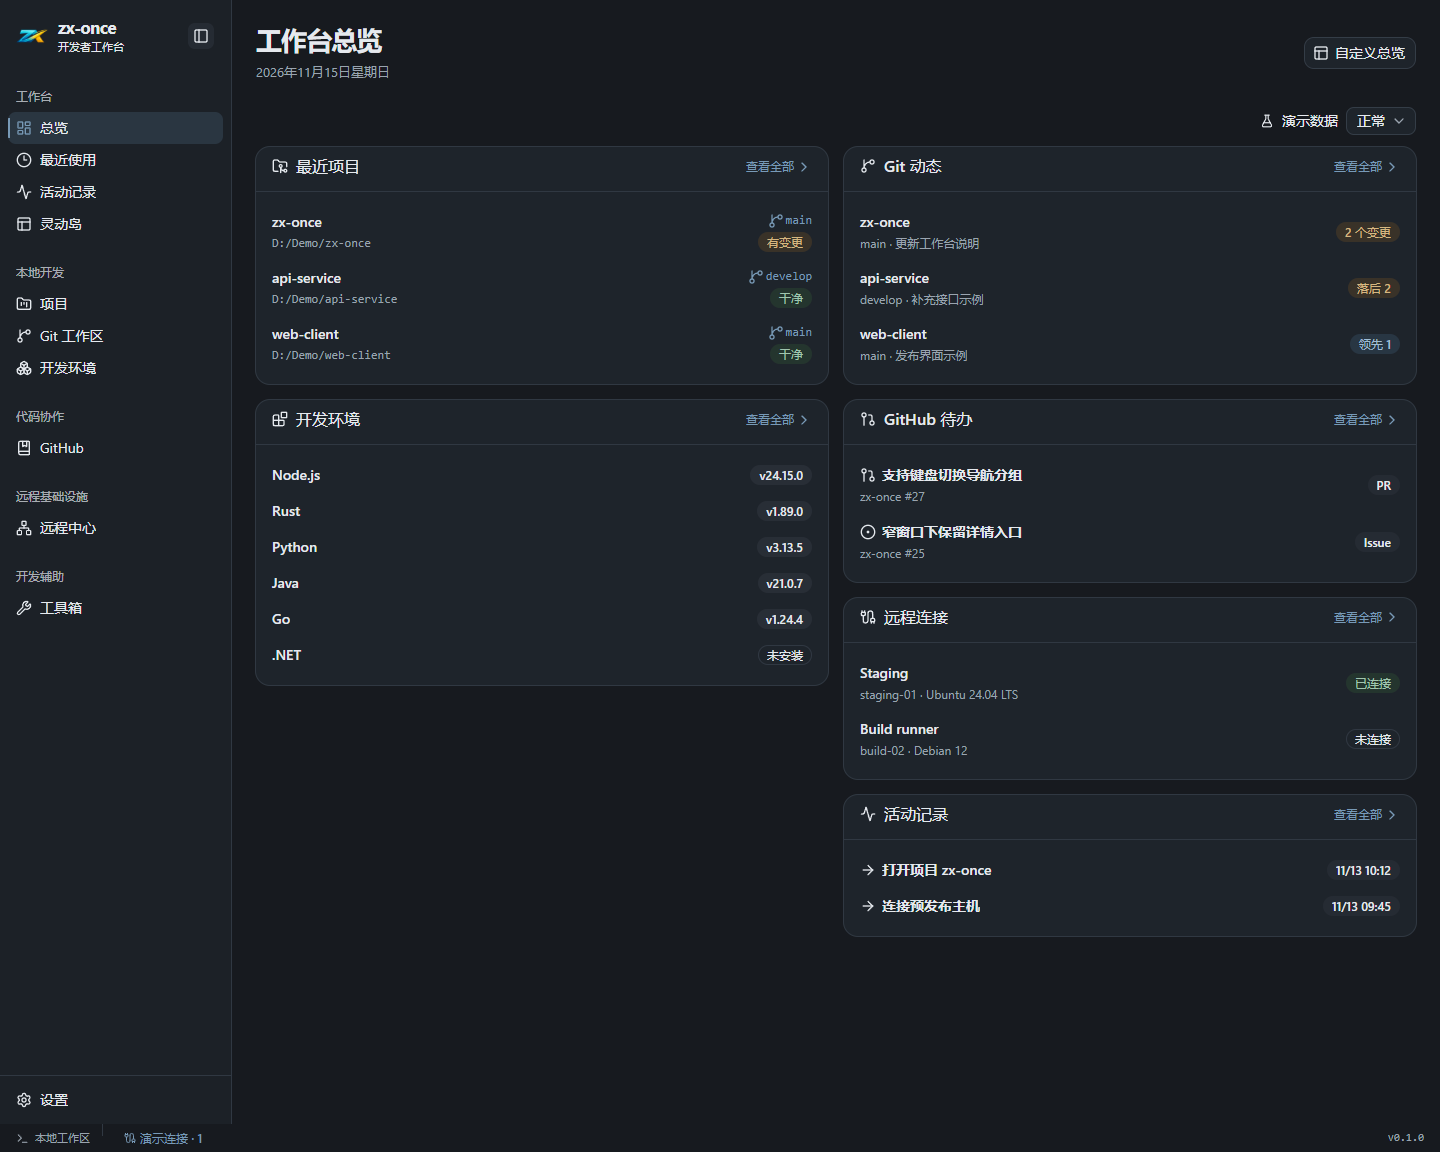
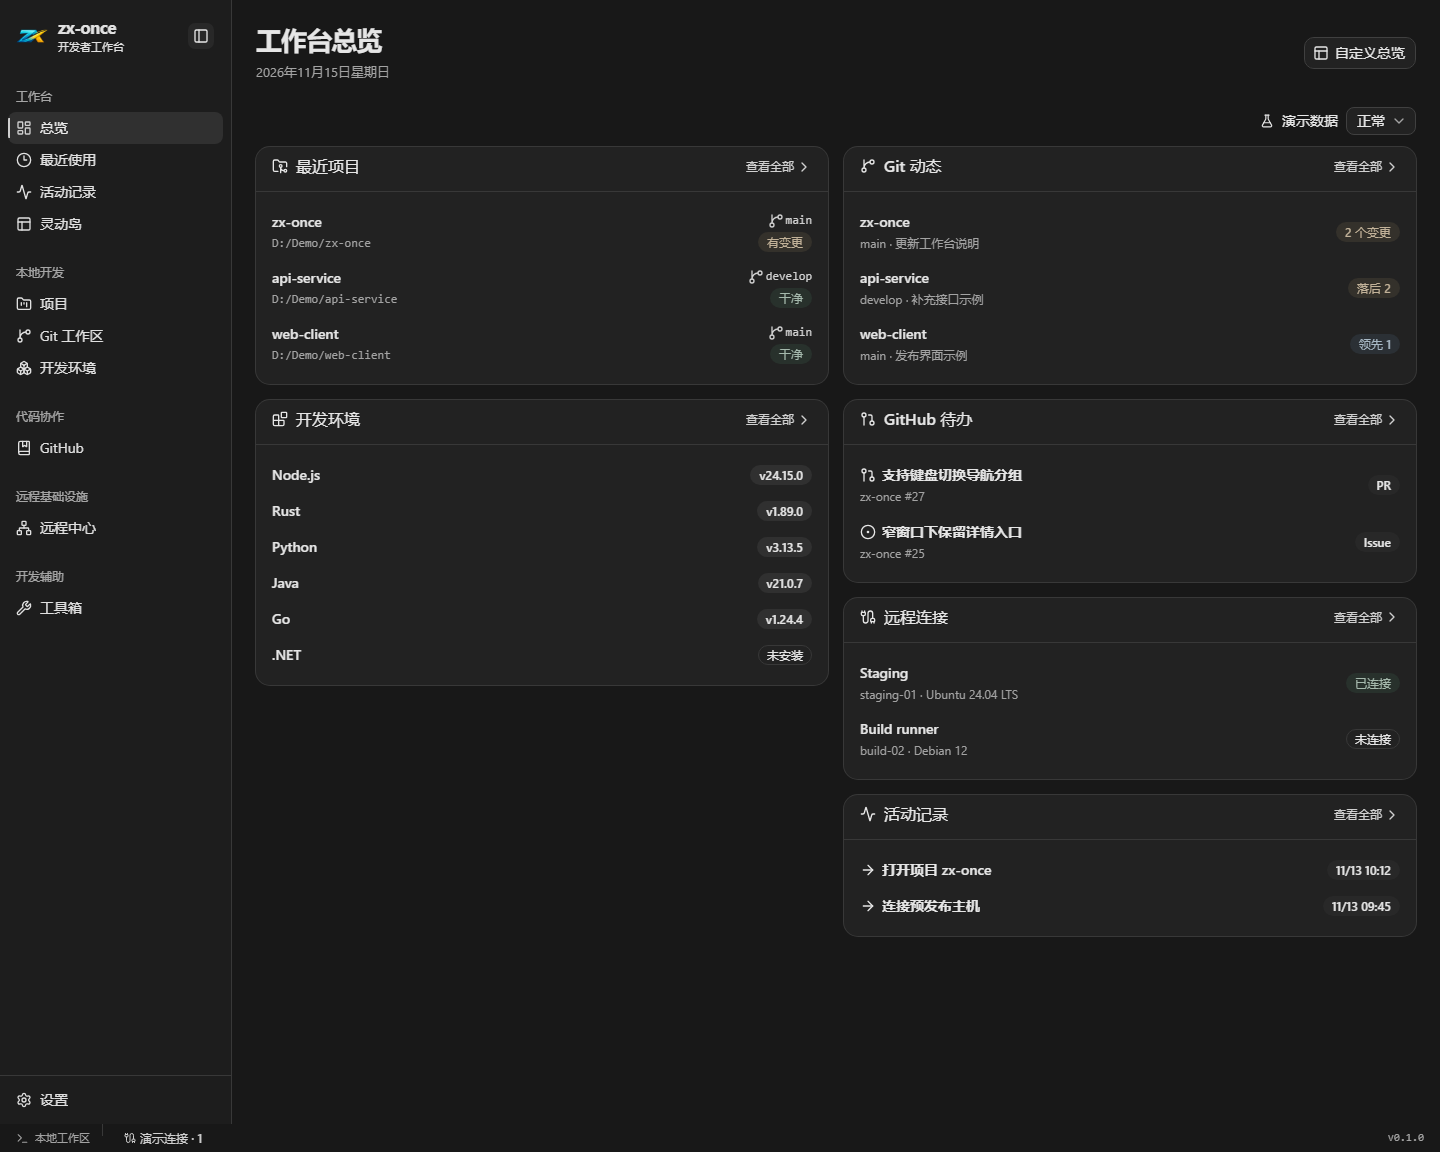
docs(design-system): update dark theme to neutral graphite palette

diff --git a/src/styles.css b/src/styles.css
@@ -89,6 +89,7 @@
   --secondary-foreground: var(--foreground);
   --accent-foreground: var(--foreground);
   --destructive-foreground: var(--primary-foreground);
+  --sidebar-background: var(--sidebar);
   --sidebar-foreground: var(--foreground);
   --sidebar-primary: var(--primary);
   --sidebar-primary-foreground: var(--primary-foreground);
@@ -108,32 +109,37 @@
 }
 
 :root.dark {
-  --background: #171A1F;
-  --foreground: #E5E9EE;
-  --sidebar: #1C2127;
-  --card: #1E242B;
-  --popover: #242B33;
-  --secondary: #282E36;
-  --muted: #252B33;
-  --muted-foreground: #9AA4AF;
-  --accent: #2A3641;
-  --border: #303842;
-  --input: #343D47;
-  --primary: #789AB7;
-  --primary-hover: #8AAAC4;
-  --primary-foreground: #111820;
-  --ring: var(--primary);
-  --scrollbar-thumb: #6B7784;
-  --overlay: #111820A6;
+  --background: #181818;
+  --foreground: #E6E6E6;
+  --sidebar: #1D1D1D;
+  --sidebar-foreground: #E0E0E0;
+  --card: #222222;
+  --popover: #292929;
+  --secondary: #303030;
+  --muted: #282828;
+  --muted-foreground: #A3A3A3;
+  --accent: #303030;
+  --accent-foreground: #EAEAEA;
+  --border: #383838;
+  --input: #404040;
+  --primary: #D0D0D0;
+  --primary-hover: #E0E0E0;
+  --primary-foreground: #181818;
+  --ring: #B8B8B8;
+  --scrollbar-thumb: #777777;
+  --overlay: #000000A6;
 
-  --success: #A0C5AF;
-  --success-muted: #24352E;
-  --warning: #D5B781;
-  --warning-muted: #393228;
-  --destructive: #DFA4A4;
-  --destructive-muted: #3C2D32;
-  --info: #A0BED5;
-  --info-muted: #283643;
+  --success: #A5B9AD;
+  --success-muted: #28312C;
+  --warning: #C2B299;
+  --warning-muted: #34312B;
+  --destructive: #CAA8A8;
+  --destructive-muted: #362D2D;
+  --info: #A8B9C6;
+  --info-muted: #2B3035;
+  --chart-3: #848484;
+  --chart-4: #686868;
+  --chart-5: #4C4C4C;
   color-scheme: dark;
 }
 
@@ -145,6 +151,10 @@
     background-color: var(--background);
     accent-color: var(--primary);
     scrollbar-color: var(--scrollbar-thumb) transparent;
+  }
+  :root.dark ::selection {
+    background-color: var(--primary);
+    color: var(--primary-foreground);
   }
   a:focus-visible {
     outline: 2px solid var(--ring);

diff --git a/src/styles.test.ts b/src/styles.test.ts
@@ -1,0 +1,45 @@
+// @vitest-environment jsdom
+import { readFileSync } from "node:fs";
+import { expect, it, onTestFinished } from "vitest";
+
+it("resolves the dark workbench palette and sidebar aliases to neutral graphite", () => {
+  const style = document.createElement("style");
+  style.textContent = readFileSync("src/styles.css", "utf8");
+  document.head.append(style);
+  document.documentElement.classList.add("dark");
+  onTestFinished(() => {
+    style.remove();
+    document.documentElement.classList.remove("dark");
+  });
+
+  const theme = getComputedStyle(document.documentElement);
+  // jsdom exposes custom property aliases as var(--name) even after the cascade.
+  function color(name: string): string {
+    const value = theme.getPropertyValue(name).trim();
+    const alias = /^var\((--[\w-]+)\)$/.exec(value);
+    return alias ? color(alias[1]) : value.toUpperCase();
+  }
+
+  const palette = {
+    "#181818": ["background", "primary-foreground", "sidebar-primary-foreground"],
+    "#E6E6E6": ["foreground", "card-foreground", "popover-foreground", "secondary-foreground"],
+    "#1D1D1D": ["sidebar", "sidebar-background"],
+    "#E0E0E0": ["sidebar-foreground"],
+    "#222222": ["card"],
+    "#292929": ["popover"],
+    "#303030": ["secondary", "accent", "sidebar-accent"],
+    "#282828": ["muted"],
+    "#A3A3A3": ["muted-foreground"],
+    "#EAEAEA": ["accent-foreground", "sidebar-accent-foreground"],
+    "#383838": ["border", "sidebar-border"],
+    "#404040": ["input"],
+    "#B8B8B8": ["ring", "sidebar-ring"],
+    "#D0D0D0": ["primary", "sidebar-primary"],
+  };
+  for (const [expected, roles] of Object.entries(palette)) {
+    for (const role of roles) expect(color(`--${role}`), role).toBe(expected);
+  }
+  for (const role of ["primary-hover", "overlay", "scrollbar-thumb", "chart-1", "chart-2", "chart-3", "chart-4", "chart-5"]) {
+    expect(color(`--${role}`), role).toMatch(/^#([\dA-F]{2})\1\1([\dA-F]{2})?$/);
+  }
+});

diff --git a/src/components/ui/select.tsx b/src/components/ui/select.tsx
@@ -80,7 +80,11 @@ function SelectContent({
         <SelectPrimitive.Popup
           data-slot="select-content"
           data-align-trigger={alignItemWithTrigger}
-          className={cn("relative isolate z-50 max-h-(--available-height) w-(--anchor-width) min-w-36 origin-(--transform-origin) overflow-x-hidden overflow-y-auto rounded-lg bg-popover text-popover-foreground shadow-md ring-1 ring-border duration-100 data-[align-trigger=true]:animate-none data-[side=bottom]:slide-in-from-top-2 data-[side=inline-end]:slide-in-from-left-2 data-[side=inline-start]:slide-in-from-right-2 data-[side=left]:slide-in-from-right-2 data-[side=right]:slide-in-from-left-2 data-[side=top]:slide-in-from-bottom-2 data-open:animate-in data-open:fade-in-0 data-open:zoom-in-95 data-closed:animate-out data-closed:fade-out-0 data-closed:zoom-out-95", className )}
+          className={cn(
+            "relative isolate z-50 max-h-(--available-height) w-(--anchor-width) min-w-36 origin-(--transform-origin) overflow-x-hidden overflow-y-auto rounded-lg bg-popover text-popover-foreground shadow-md ring-1 ring-border duration-100 data-[align-trigger=true]:animate-none data-[side=bottom]:slide-in-from-top-2 data-[side=inline-end]:slide-in-from-left-2 data-[side=inline-start]:slide-in-from-right-2 data-[side=left]:slide-in-from-right-2 data-[side=right]:slide-in-from-left-2 data-[side=top]:slide-in-from-bottom-2 data-open:animate-in data-open:fade-in-0 data-open:zoom-in-95 data-closed:animate-out data-closed:fade-out-0 data-closed:zoom-out-95",
+            "dark:**:data-highlighted:inset-ring dark:**:data-highlighted:inset-ring-ring",
+            className
+          )}
           {...props}
         >
           <SelectScrollUpButton />

diff --git a/src/components/ui/context-menu.tsx b/src/components/ui/context-menu.tsx
@@ -49,7 +49,11 @@ function ContextMenuContent({
       >
         <ContextMenuPrimitive.Popup
           data-slot="context-menu-content"
-          className={cn("z-50 max-h-(--available-height) min-w-36 origin-(--transform-origin) overflow-x-hidden overflow-y-auto rounded-lg bg-popover p-1 text-popover-foreground shadow-md ring-1 ring-border duration-100 outline-none data-[side=bottom]:slide-in-from-top-2 data-[side=inline-end]:slide-in-from-left-2 data-[side=inline-start]:slide-in-from-right-2 data-[side=left]:slide-in-from-right-2 data-[side=right]:slide-in-from-left-2 data-[side=top]:slide-in-from-bottom-2 data-open:animate-in data-open:fade-in-0 data-open:zoom-in-95 data-closed:animate-out data-closed:fade-out-0 data-closed:zoom-out-95", className )}
+          className={cn(
+            "z-50 max-h-(--available-height) min-w-36 origin-(--transform-origin) overflow-x-hidden overflow-y-auto rounded-lg bg-popover p-1 text-popover-foreground shadow-md ring-1 ring-border duration-100 outline-none data-[side=bottom]:slide-in-from-top-2 data-[side=inline-end]:slide-in-from-left-2 data-[side=inline-start]:slide-in-from-right-2 data-[side=left]:slide-in-from-right-2 data-[side=right]:slide-in-from-left-2 data-[side=top]:slide-in-from-bottom-2 data-open:animate-in data-open:fade-in-0 data-open:zoom-in-95 data-closed:animate-out data-closed:fade-out-0 data-closed:zoom-out-95",
+            "dark:**:data-highlighted:inset-ring dark:**:data-highlighted:inset-ring-ring",
+            className
+          )}
           {...props}
         />
       </ContextMenuPrimitive.Positioner>

diff --git a/docs/special/design-system/README.md b/docs/special/design-system/README.md
@@ -1,6 +1,6 @@
 # 界面主题与配色
 
-工作台使用 Graphite 中性色和 Mineral Blue 交互色。「设置 → 外观」提供浅色、深色和跟随系统三种选项。HTML 入口在样式加载前读取主题偏好，工作台挂载后在跟随系统模式下监听系统外观变化。[主题初始化](../../../index.html) · [主题切换](../../../src/app/AppShell.tsx)
+深色工作台使用纯中性石墨灰（Pure Neutral Graphite），基础色的 RGB 三个通道相等，主操作使用银灰色。浅色工作台沿用 Mineral Blue。「设置 → 外观」提供浅色、深色和跟随系统三种选项。HTML 入口在样式加载前读取偏好，工作台挂载后在跟随系统模式下监听系统外观变化。[主题初始化](../../../index.html) · [主题切换](../../../src/app/AppShell.tsx)
 
 ## 颜色变量
 
@@ -8,23 +8,25 @@
 
 | CSS 变量 | 浅色 | 深色 | 用途 |
 | --- | --- | --- | --- |
-| `--background` | `#F5F6F7` | `#171A1F` | 页面底色、状态栏 |
-| `--foreground` | `#20262D` | `#E5E9EE` | 标题、正文 |
-| `--sidebar` | `#F0F2F4` | `#1C2127` | 侧栏与窄窗口顶栏 |
-| `--card` | `#FFFFFF` | `#1E242B` | 普通面板、表单控件 |
-| `--popover` | `#FFFFFF` | `#242B33` | 菜单、弹窗、浮层 |
-| `--secondary` | `#E9EDF1` | `#282E36` | 次要操作、元数据徽章 |
-| `--muted` | `#ECEFF2` | `#252B33` | 普通徽章、悬停、骨架屏 |
-| `--muted-foreground` | `#68727E` | `#9AA4AF` | 页面或卡片上的辅助文字、占位符 |
-| `--accent` | `#E7EDF2` | `#2A3641` | 选中的导航、选项和切换控件 |
-| `--border` | `#DDE2E7` | `#303842` | 面板边界、分隔线 |
-| `--input` | `#D5DCE3` | `#343D47` | 输入框、次要按钮边界 |
-| `--primary` | `#496F91` | `#789AB7` | 主操作、链接、选择标记 |
-| `--primary-hover` | `#3F617F` | `#8AAAC4` | 主按钮悬停 |
-| `--primary-foreground` | `#FFFFFF` | `#111820` | 主按钮文字、复选框勾号 |
-| `--ring` | `#6486A3` | `#789AB7` | 键盘焦点 |
-| `--overlay` | `#171A1F52` | `#111820A6` | Dialog 和 Sheet 遮罩，末两位为透明度 |
-| `--scrollbar-thumb` | `#7D8791` | `#6B7784` | 原生滚动条滑块 |
+| `--background` | `#F5F6F7` | `#181818` | 页面底色、状态栏 |
+| `--foreground` | `#20262D` | `#E6E6E6` | 标题、正文 |
+| `--sidebar`、`--sidebar-background` | `#F0F2F4` | `#1D1D1D` | 侧栏与窄窗口顶栏 |
+| `--sidebar-foreground` | `#20262D` | `#E0E0E0` | 侧栏文字 |
+| `--card` | `#FFFFFF` | `#222222` | 普通面板、表单控件 |
+| `--popover` | `#FFFFFF` | `#292929` | 菜单、弹窗、浮层 |
+| `--secondary` | `#E9EDF1` | `#303030` | 次要操作、元数据徽章 |
+| `--muted` | `#ECEFF2` | `#282828` | 普通徽章、悬停、骨架屏 |
+| `--muted-foreground` | `#68727E` | `#A3A3A3` | 辅助文字、占位符 |
+| `--accent` | `#E7EDF2` | `#303030` | 选中的导航、选项和切换控件 |
+| `--accent-foreground` | `#20262D` | `#EAEAEA` | 选中项文字 |
+| `--border` | `#DDE2E7` | `#383838` | 面板边界、分隔线 |
+| `--input` | `#D5DCE3` | `#404040` | 输入框、次要按钮边界 |
+| `--primary` | `#496F91` | `#D0D0D0` | 主操作、链接、选择标记 |
+| `--primary-hover` | `#3F617F` | `#E0E0E0` | 主按钮悬停 |
+| `--primary-foreground` | `#FFFFFF` | `#181818` | 主按钮文字、复选框勾号 |
+| `--ring` | `#6486A3` | `#B8B8B8` | 键盘焦点 |
+| `--overlay` | `#171A1F52` | `#000000A6` | Dialog 和 Sheet 遮罩，末两位为透明度 |
+| `--scrollbar-thumb` | `#7D8791` | `#777777` | 原生滚动条滑块 |
 
 ### 状态色
 
@@ -32,30 +34,40 @@
 
 | 状态 | 浅色文字 / 底色 | 深色文字 / 底色 | 界面示例 |
 | --- | --- | --- | --- |
-| Success | `#396A52` / `#E7F0EB` | `#A0C5AF` / `#24352E` | 已安装、已连接、工作区干净 |
-| Warning | `#795924` / `#F4EEE2` | `#D5B781` / `#393228` | 工作区有变更、分支落后 |
-| Destructive | `#98474B` / `#F6E9E9` | `#DFA4A4` / `#3C2D32` | 读取失败、部署失败 |
-| Info | `#456987` / `#E6EEF4` | `#A0BED5` / `#283643` | 传输排队、分支领先 |
+| Success | `#396A52` / `#E7F0EB` | `#A5B9AD` / `#28312C` | 已安装、已连接、工作区干净 |
+| Warning | `#795924` / `#F4EEE2` | `#C2B299` / `#34312B` | 工作区有变更、分支落后 |
+| Destructive | `#98474B` / `#F6E9E9` | `#CAA8A8` / `#362D2D` | 读取失败、部署失败、确认移除 |
+| Info | `#456987` / `#E6EEF4` | `#A8B9C6` / `#2B3035` | 传输排队、分支领先 |
 | Neutral | `foreground` / `muted` | `foreground` / `muted` | 普通 Badge，次要变体使用 `secondary-foreground` / `secondary` |
 
 ## shadcn/ui 映射
 
-- `card-foreground`、`popover-foreground`、`secondary-foreground`、`accent-foreground` 和 `sidebar-foreground` 共用 `foreground`。选中背景上的小字使用完整前景色。
+- `card-foreground`、`popover-foreground` 和 `secondary-foreground` 共用 `foreground`。深色主题为侧栏和选中项指定了独立的文字灰阶。
 - `sidebar-primary`、`sidebar-primary-foreground`、`sidebar-accent`、`sidebar-accent-foreground`、`sidebar-border`、`sidebar-ring` 分别引用同名的基础角色。导航用 `sidebar-accent` 铺底，2px 侧标及图标取 `sidebar-primary`。
-- `chart-1` 至 `chart-5` 依次引用 `primary`、`muted-foreground`、`success`、`warning`、`destructive`。实心危险操作的文字角色 `destructive-foreground` 引用 `primary-foreground`。
+- 深色图表的五级系列色为 `#D0D0D0`、`#A3A3A3`、`#848484`、`#686868`、`#4C4C4C`。深色文本选区复用主按钮的前后景色。
 
 | 组件或场景 | 使用的颜色 |
 | --- | --- |
 | Button、Checkbox、Slider | 主按钮和勾选用 `primary` / `primary-foreground`。滑轨用 `muted`，已填部分用 `primary`，拖柄用 `card` 和 `ring` |
 | Input、Textarea、Select、Field | 控件用 `card` 和 `input`，焦点用 `ring`，错误用 `destructive` |
 | Tabs、Toggle、Sidebar | 中性悬停，选中项使用 `accent` 或 `card` 底色，配合主色描边、图标或选中标记 |
-| ContextMenu、Select 列表、Dialog、Sheet、Toast | 面板取 `popover` / `popover-foreground`，浮层边界取 `border`，模态遮罩取 `overlay`。Toast 按结果给图标着色 |
+| ContextMenu、Select 列表、Dialog、Sheet、Toast | 面板取 `popover` / `popover-foreground`，浮层边界取 `border`，模态遮罩取 `overlay`。深色菜单和列表用 1px 的 `ring` 内描边标出鼠标或键盘高亮项。Toast 按结果给图标着色 |
 | Tooltip | 反相中性色 `foreground` 底、`background` 字，箭头与底色一致 |
 | Badge、Alert | 普通信息取中性色，业务状态显式指定对应变体 |
 | Card、Item、Table、Skeleton | 卡片取 `card`，行悬停取中性表面，分隔线取 `border`，骨架取 `muted` |
 
-## 灵动岛外观
+工作台通过 Checkbox、ToggleGroup 和 Select 提供选择控件，通过 ContextMenu 展示右键菜单，通过 Dialog 承载确认操作，滚动区域使用原生滚动条。项目中没有独立的 Radio、Switch、DropdownMenu、Popover、AlertDialog 或 ScrollArea 组件。
 
-灵动岛设置页和预览画布的外框跟随工作台主题。岛体背景、边框和主题由 `IslandConfig.appearance` 独立控制，页内预览读取当前草稿。预览的媒体封面、充电和低电量色集中在灵动岛模块内。[预览配色](../../../src/features/island/settingsStyles.ts) · [岛体默认配置](../../../src/features/island/defaults.json)
+## 带色相内容的范围
 
-同一总览页面的两种工作台外观可对照查看。[浅色总览截图](overview-light.png) · [深色总览截图](overview-dark.png)
+灵动岛设置页和预览画布的外框跟随工作台主题。岛体背景、边框和主题由 `IslandConfig.appearance` 独立控制。预览保留岛体文字和控件原有的灰调、媒体封面与占位渐变、充电绿 `#21EB54` 和低电量红 `#F23046`。`#101214`、`#202326` 用于识别旧版岛体默认背景。[预览配色](../../../src/features/island/settingsStyles.ts) · [岛体默认配置](../../../src/features/island/defaults.json)
+
+深色主题中，菜单、导航、链接和普通徽章均使用灰阶。除上述四类语义状态和独立岛体预览，侧栏与窄窗口顶栏还会显示品牌图标的原色。[品牌图标](../../../public/icon.png)
+
+## 总览截图
+
+两张深色截图使用相同的总览数据和 1440 × 1152 的 Chrome 视口。截图时关闭了 LCD 子像素渲染，避免显示器相关的文字色边影响比较。[浅色总览](overview-light.png)
+
+| 调整前 | 纯中性石墨灰 |
+| --- | --- |
+| ![调整前的深色总览](overview-dark-before.png) | ![纯中性石墨灰总览](overview-dark.png) |

diff --git a/docs/overview/pending-verifications.md b/docs/overview/pending-verifications.md
@@ -2,6 +2,6 @@
 
 后续尚未验证的操作及预期结果统一记录在此，待用户确认后集中验证。[操作验证约定](../../AGENTS.md#操作验证)
 
-- [ ] 在 Windows 桌面主窗口查看总览，确认六张默认卡片按列连续排列。点击主导航「工作台 → 灵动岛」，确认打开「灵动岛设置」。
+- [ ] 在 Windows 桌面主窗口查看总览，确认六张默认卡片按列连续排列。在「设置 → 外观」选「跟随系统」，切换 Windows 明暗外观，确认浅色使用矿物蓝、深色使用石墨灰与银灰强调色。点击主导航「工作台 → 灵动岛」，确认打开「灵动岛设置」。
 - [ ] 分别在主窗口打开和已关闭至托盘时，点击 Windows 托盘菜单「灵动岛设置」，确认两种情况下都能打开灵动岛设置页。
 - [ ] 在灵动岛「动画效果」分组修改一项设置，保留未保存的草稿并关闭主窗口。从托盘点击「打开主界面」，确认恢复该分组和草稿。

diff --git a/README.md b/README.md
@@ -19,6 +19,6 @@ pnpm dev
 | --- | --- |
 | 总体 | [文档目录](docs/README.md) · [项目结构、运行与验证](docs/overview/project.md) · [待操作验证清单](docs/overview/pending-verifications.md) |
 | 模块 | [开发者工作台](docs/modules/workbench.md) · [Windows 灵动岛](docs/modules/island.md) |
-| 特殊 | [界面主题与配色](docs/special/design-system/README.md) · [Windows 通知与 MSIX 打包](docs/special/windows-notifications.md) · [灵动岛性能诊断](docs/special/island-performance.md) |
+| 特殊 | [界面主题与配色（浅色矿物蓝、深色石墨灰）](docs/special/design-system/README.md) · [Windows 通知与 MSIX 打包](docs/special/windows-notifications.md) · [灵动岛性能诊断](docs/special/island-performance.md) |
 
 项目采用 MIT 许可。灵动岛的外观与布局改编自岛仔（Daozai）。[许可证与署名](LICENSE)

diff --git a/docs/README.md b/docs/README.md
@@ -12,7 +12,7 @@
 
 ## 特殊
 
-- [界面主题与配色](special/design-system/README.md) — 浅深主题、组件颜色变量、灵动岛外观的取色范围及总览截图。
+- [界面主题与配色](special/design-system/README.md) — 深色石墨灰与浅色主题的变量、状态色和品牌色的使用范围，以及深色调整前后的总览截图。
 - [Windows 通知与 MSIX 打包](special/windows-notifications.md) — 微信和 QQ 的窗口发现、提醒归属、授权条件与打包命令。
 - [灵动岛性能诊断](special/island-performance.md) — 原生窗口自检、渲染统计与性能采样条件。
 
